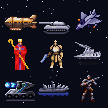
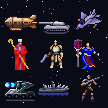
Fading Suns: revise unit, structure and terrain strips
Claude-Session: https://claude.ai/code/session_01NjDAVdBsSHEKPRWpSjyjdW

Changed region(s): [[0.6667, 0.3611, 0.9444, 0.6389]]

diff --git a/index.html b/index.html
@@ -475,15 +475,15 @@ footer { border-top: 1px solid var(--line); padding-block: 28px 44px; display: f
       <div class="block">
         <h3>Units</h3>
         <figure class="fig">
-          <div class="stage"><img class="px" src="img/fs-units.png" alt="A zeppelin, a jet, warships, a heavy tank, hover artillery, a truck, a plasma cannon, an armoured train, regular infantry, militia, a flamethrower, orbital troops, a crusader, a knight, a cardinal and a Lord" width="609" height="32"></div>
+          <div class="stage"><img class="px" src="img/fs-units.png" alt="A zeppelin, a jet, a battleship, a submarine, a heavy tank, a hover artillery, a truck, a plasma cannon, an armoured train, regular infantry, militia, a flamethrower, orbital troops, a crusader, a knight, a cardinal and a Lord" width="609" height="32"></div>
           <figcaption>Air, sea, vehicle and infantry units. All 32×32 sprites.</figcaption>
         </figure>
         <figure class="fig">
-          <div class="stage"><img class="px" src="img/fs-structures.png" alt="Shipyard, refinery and air hangar; a damaged city and ruins; a cyclotron; ice city and church; jungle city, fort and monastery; underwater city and lab" width="672" height="40"></div>
+          <div class="stage"><img class="px" src="img/fs-structures.png" alt="Shipyard, refinery, air hangar and cyclotron; a damaged city and city ruins; ice city and church; jungle city, fort and monastery; underwater city and lab" width="672" height="40"></div>
           <figcaption>Structures: a damaged city, a cyclotron, and ice, jungle and underwater versions.</figcaption>
         </figure>
         <figure class="fig">
-          <div class="stage"><img class="px" src="img/fs-terrain.png" alt="Terrain hexes: grass, jungle, jungle hills and volcano, frozen sea, frozen ocean, swamp, desert, volcano, a megacity tower and abandoned suburbs" width="568" height="40"></div>
+          <div class="stage"><img class="px" src="img/fs-terrain.png" alt="Terrain hexes: grass, jungle, jungle hills and volcano, frozen sea, frozen ocean, dead forest, desert, volcano, a megacity tower and abandoned suburbs" width="568" height="40"></div>
           <figcaption>Terrain: grass, jungle, frozen ocean and more, plus megacity tiles.</figcaption>
         </figure>
       </div>

diff --git a/page.html b/page.html
@@ -460,15 +460,15 @@ footer { border-top: 1px solid var(--line); padding-block: 28px 44px; display: f
       <div class="block">
         <h3>Units</h3>
         <figure class="fig">
-          <div class="stage"><img class="px" src="img/fs-units.png" alt="A zeppelin, a jet, warships, a heavy tank, hover artillery, a truck, a plasma cannon, an armoured train, regular infantry, militia, a flamethrower, orbital troops, a crusader, a knight, a cardinal and a Lord" width="609" height="32"></div>
+          <div class="stage"><img class="px" src="img/fs-units.png" alt="A zeppelin, a jet, a battleship, a submarine, a heavy tank, a hover artillery, a truck, a plasma cannon, an armoured train, regular infantry, militia, a flamethrower, orbital troops, a crusader, a knight, a cardinal and a Lord" width="609" height="32"></div>
           <figcaption>Air, sea, vehicle and infantry units. All 32×32 sprites.</figcaption>
         </figure>
         <figure class="fig">
-          <div class="stage"><img class="px" src="img/fs-structures.png" alt="Shipyard, refinery and air hangar; a damaged city and ruins; a cyclotron; ice city and church; jungle city, fort and monastery; underwater city and lab" width="672" height="40"></div>
+          <div class="stage"><img class="px" src="img/fs-structures.png" alt="Shipyard, refinery, air hangar and cyclotron; a damaged city and city ruins; ice city and church; jungle city, fort and monastery; underwater city and lab" width="672" height="40"></div>
           <figcaption>Structures: a damaged city, a cyclotron, and ice, jungle and underwater versions.</figcaption>
         </figure>
         <figure class="fig">
-          <div class="stage"><img class="px" src="img/fs-terrain.png" alt="Terrain hexes: grass, jungle, jungle hills and volcano, frozen sea, frozen ocean, swamp, desert, volcano, a megacity tower and abandoned suburbs" width="568" height="40"></div>
+          <div class="stage"><img class="px" src="img/fs-terrain.png" alt="Terrain hexes: grass, jungle, jungle hills and volcano, frozen sea, frozen ocean, dead forest, desert, volcano, a megacity tower and abandoned suburbs" width="568" height="40"></div>
           <figcaption>Terrain: grass, jungle, frozen ocean and more, plus megacity tiles.</figcaption>
         </figure>
       </div>
